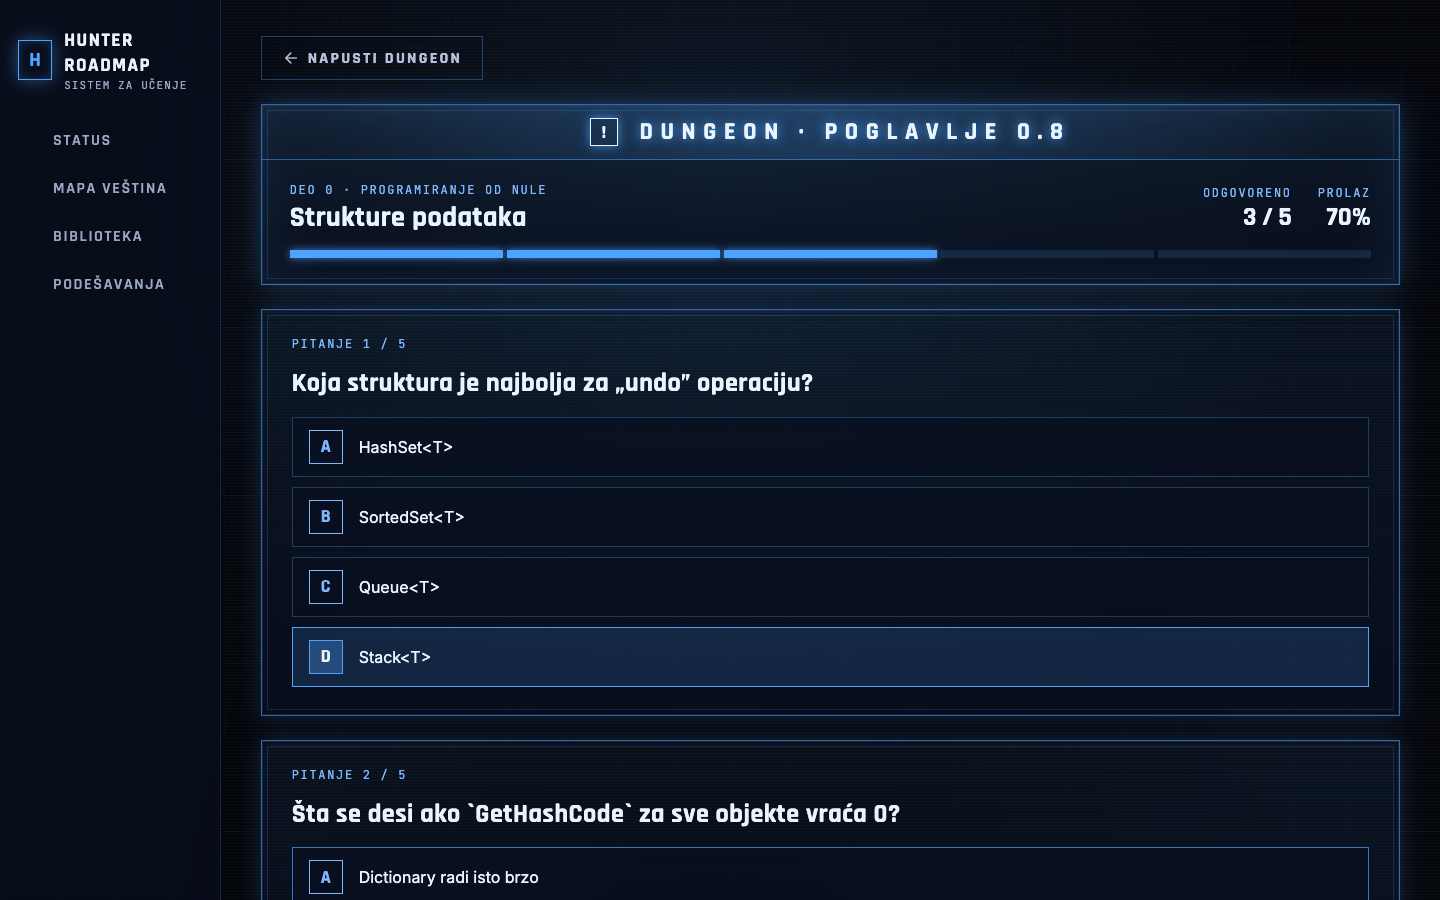
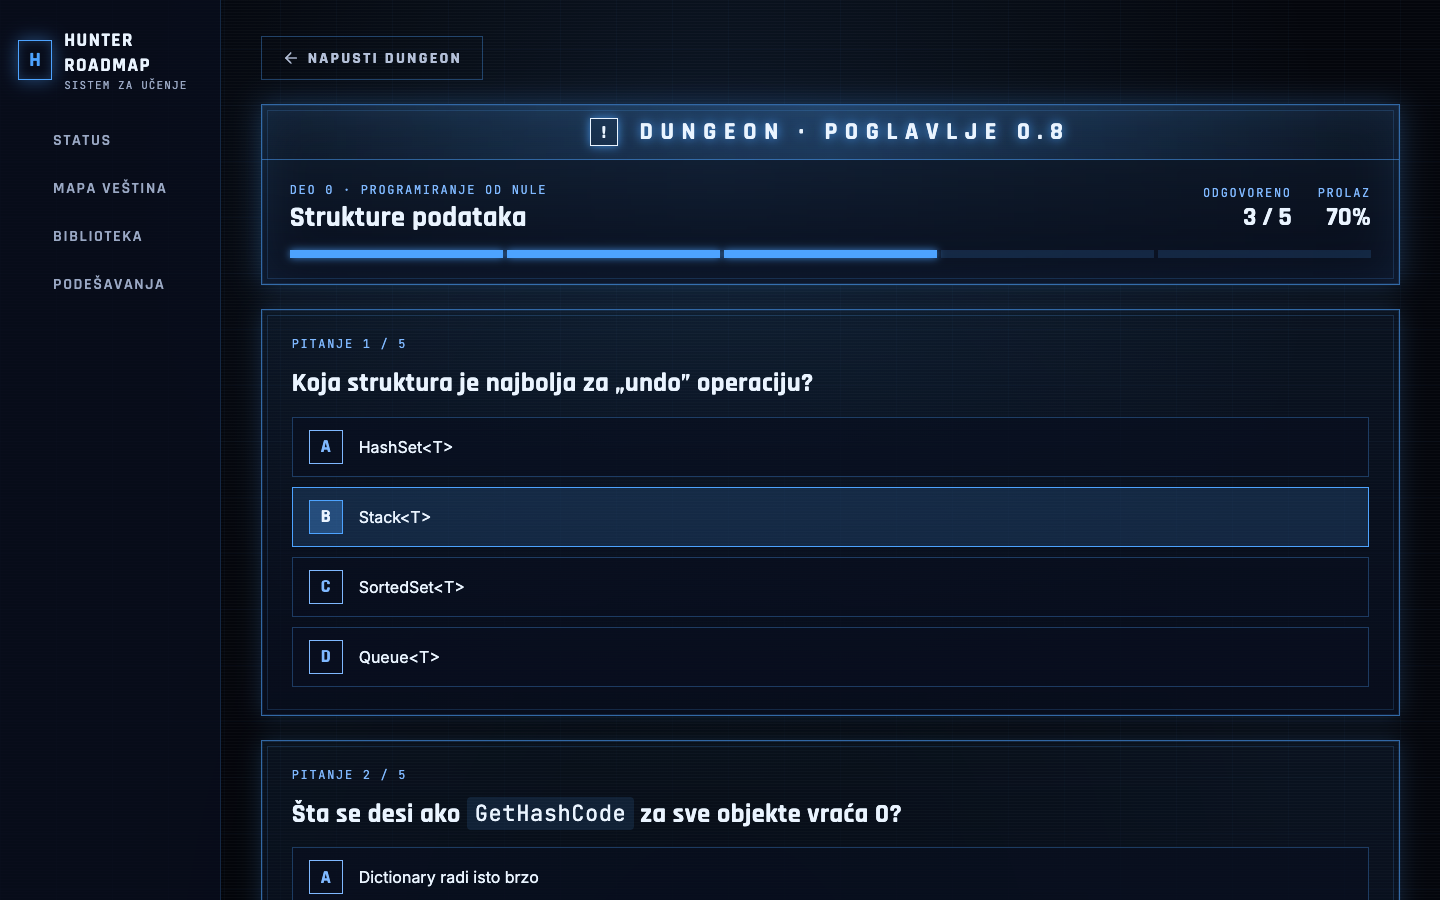
fix(web): inline kod u pitanjima testa umesto doslovnih backtick-ova
- lib/inlineCode.ts (splitInlineCode, testovi) + components/InlineText.tsx:
  `kod` u tekstu pitanja, opcijama, objašnjenju i slabim tačkama postaje <code>,
  bez react-markdown-a u test i boss chunk-u
- E2E helper poredi tekst bez backtick-ova
- nova slika ekrana testa, broj Vitest testova u README-ima

Changed region(s): [[0.1875, 0.5289, 0.9688, 0.7778], [0.3125, 0.8711, 0.625, 0.9333]]

diff --git a/web/src/components/QuestionCard.tsx b/web/src/components/QuestionCard.tsx
@@ -1,5 +1,6 @@
 import type { PublicQuestion, QuestionResult } from "../api";
 import { KEYS } from "../lib/quiz";
+import { InlineText } from "./InlineText";
 
 /**
  * Jedno pitanje testa sa opcijama u izmešanom redosledu (`order`) i, posle predaje, ocenom.
@@ -21,7 +22,7 @@ export function QuestionCard({ question, index, total, order, picked, graded, on
   return (
     <section className="card glass q-card" aria-labelledby={id}>
       <span className="win-label">Pitanje {index + 1} / {total}</span>
-      <h2 id={id} className="q-text">{question.text}</h2>
+      <h2 id={id} className="q-text"><InlineText text={question.text} /></h2>
       {question.code && <pre className="prose q-code"><code>{question.code}</code></pre>}
       <div role="radiogroup" aria-labelledby={id} style={{ display: "flex", flexDirection: "column", gap: 10 }}>
         {order.map((orig, pos) => {
@@ -31,7 +32,7 @@ export function QuestionCard({ question, index, total, order, picked, graded, on
             <button key={orig} type="button" role="radio" aria-checked={isPicked} className={`option ${cls}`}
               disabled={!!graded} onClick={() => onPick(orig)}>
               <span className="key">{KEYS[pos]}</span>
-              <span style={{ flex: 1 }}>{question.options[orig]}</span>
+              <span style={{ flex: 1 }}><InlineText text={question.options[orig]} /></span>
               {graded && orig === graded.correct && <strong className="opt-mark">Tačno</strong>}
               {graded && isPicked && !graded.isCorrect && <strong className="opt-mark">Tvoj odgovor</strong>}
             </button>
@@ -41,7 +42,7 @@ export function QuestionCard({ question, index, total, order, picked, graded, on
       {graded && (
         <div className={`q-feedback${graded.isCorrect ? " ok" : " bad"}`}>
           <strong>{graded.isCorrect ? "[ SISTEM ] TAČNO" : `[ SISTEM ] NETAČNO · TAČAN ODGOVOR: ${correctKey}`}</strong>
-          <span>{graded.why}</span>
+          <span><InlineText text={graded.why} /></span>
         </div>
       )}
     </section>

diff --git a/web/e2e/helpers.ts b/web/e2e/helpers.ts
@@ -1,5 +1,6 @@
 import { test as base, expect, type APIRequestContext, type Page } from "@playwright/test";
 import pack from "../../packs/fullstack-dotnet/chapters.json" with { type: "json" };
+import { splitInlineCode } from "../src/lib/inlineCode";
 
 // Pomoćne funkcije za E2E testove. Tačne odgovore API namerno ne šalje pre predaje, pa ih test
 // čita iz samog paketa (isti fajl koji API uvozi), kao što bi ih znao korisnik koji je naučio lekciju.
@@ -29,9 +30,12 @@ interface PackChapter { id: string; test: PackQuestion[] }
 const chapters = pack as PackChapter[];
 
 // Pitanje se prepoznaje po tekstu I kodu: više pitanja ima isti tekst („Šta ispisuje kod?”) sa drugim kodom.
-const key = (text: string, code: string | null) => `${text.trim()}\n${(code ?? "").trim()}`;
+const key = (text: string, code: string | null) => `${plain(text)}\n${(code ?? "").trim()}`;
+// Inline kod (`...`) se na ekranu prikazuje kao <code>, bez backtick-ova (InlineText),
+// pa se tekst iz paketa poredi bez njih, isto kao splitInlineCode.
+const plain = (s: string) => splitInlineCode(s).map((p) => p.text).join("").trim();
 const correctOption = new Map(
-  chapters.flatMap((c) => c.test.map((q) => [key(q.text, q.code), q.options[q.correct]] as const)),
+  chapters.flatMap((c) => c.test.map((q) => [key(q.text, q.code), plain(q.options[q.correct])] as const)),
 );
 
 export const correctAnswers = (chapterId: string) =>

diff --git a/web/src/styles.css b/web/src/styles.css
@@ -239,6 +239,8 @@ h1, h2, h3 { font-family: var(--display); margin: 0; letter-spacing: 0.02em; }
 @media (max-width: 700px) { .card.glass { padding: 20px 16px; } }
 .q-text { font-family: var(--display); font-size: 26px; font-weight: 700; line-height: 1.25; color: var(--bright); }
 .prose.q-code { margin: 0; max-width: none; }
+/* Inline kod u pitanjima, opcijama, objašnjenjima i slabim tačkama (InlineText). */
+.q-text code, .option code, .q-feedback span code, .weak code { font-family: var(--mono); font-size: 0.85em; font-weight: 500; background: rgba(var(--accent-rgb), 0.12); padding: 0.05em 0.35em; border-radius: 4px; }
 .prose.q-code, .prose pre { border-radius: 0; border-color: rgba(var(--accent-rgb), 0.3); background: rgba(3, 6, 14, 0.85); }
 .q-feedback { position: relative; display: flex; flex-direction: column; gap: 8px; padding: 14px 16px; font-size: 15px; line-height: 1.55; color: #dce3f2; animation: fx-in 0.35s ease both; }
 .q-feedback strong { font-family: var(--mono); font-size: 13px; letter-spacing: 0.1em; }

diff --git a/web/src/pages/StatusPage.tsx b/web/src/pages/StatusPage.tsx
@@ -7,6 +7,7 @@ import { Icon } from "../components/Icon";
 import { useCountUp, useRankChanged, useSeenNumbers } from "../components/Fx";
 import { Window } from "../components/Window";
 import { PenaltyDialog } from "../components/PenaltyDialog";
+import { InlineText } from "../components/InlineText";
 import { heatLevel, STEP_LABEL } from "../lib/quiz";
 
 const HEAT_ALPHA = [0, 0.25, 0.45, 0.7, 1];
@@ -285,7 +286,7 @@ export function StatusPage() {
           {s.weakPoints.map((w, i) => (
             <Link key={i} className="list-row" to={`/chapters/${encodeURIComponent(w.chapterId)}`}>
               <span style={{ fontFamily: "var(--mono)", fontSize: 12, color: "var(--bad)", minWidth: 40 }}>{w.chapterId}</span>
-              <span style={{ flex: 1, fontSize: 14 }}>{w.question}</span>
+              <span style={{ flex: 1, fontSize: 14 }}><InlineText text={w.question} /></span>
             </Link>
           ))}
         </section>

diff --git a/web/src/lib/inlineCode.test.ts b/web/src/lib/inlineCode.test.ts
@@ -1,0 +1,29 @@
+import { describe, expect, it } from "vitest";
+import { splitInlineCode } from "./inlineCode";
+
+describe("splitInlineCode", () => {
+  it("izdvaja kod između backtick-ova", () => {
+    expect(splitInlineCode("Šta ako `GetHashCode` vraća `0`?")).toEqual([
+      { text: "Šta ako ", code: false },
+      { text: "GetHashCode", code: true },
+      { text: " vraća ", code: false },
+      { text: "0", code: true },
+      { text: "?", code: false },
+    ]);
+  });
+
+  it("tekst bez koda ostaje jedan deo", () => {
+    expect(splitInlineCode("Običan tekst")).toEqual([{ text: "Običan tekst", code: false }]);
+  });
+
+  it("neuparen backtick ostaje doslovno", () => {
+    expect(splitInlineCode("`a` i ` b")).toEqual([
+      { text: "a", code: true },
+      { text: " i ` b", code: false },
+    ]);
+  });
+
+  it("prazan string daje prazan niz", () => {
+    expect(splitInlineCode("")).toEqual([]);
+  });
+});

diff --git a/web/src/lib/inlineCode.ts b/web/src/lib/inlineCode.ts
@@ -1,0 +1,21 @@
+/**
+ * Deli tekst pitanja na obične delove i delove u `backtick-ovima` (kod).
+ * Pitanja i opcije nisu pun Markdown, pa nema potrebe za react-markdown-om u test i boss
+ * chunk-u; dovoljno je prepoznati inline kod. Neuparen backtick ostaje doslovno.
+ */
+export interface TextPart { text: string; code: boolean }
+
+export function splitInlineCode(s: string): TextPart[] {
+  const parts: TextPart[] = [];
+  let rest = s;
+  for (;;) {
+    const open = rest.indexOf("`");
+    const close = open < 0 ? -1 : rest.indexOf("`", open + 1);
+    if (close < 0) break;
+    if (open > 0) parts.push({ text: rest.slice(0, open), code: false });
+    if (close > open + 1) parts.push({ text: rest.slice(open + 1, close), code: true });
+    rest = rest.slice(close + 1);
+  }
+  if (rest) parts.push({ text: rest, code: false });
+  return parts;
+}

diff --git a/web/src/components/InlineText.tsx b/web/src/components/InlineText.tsx
@@ -1,0 +1,6 @@
+import { splitInlineCode } from "../lib/inlineCode";
+
+/** Tekst sa `inline kodom` (pitanja, opcije, objašnjenja, slabe tačke). */
+export function InlineText({ text }: { text: string }) {
+  return <>{splitInlineCode(text).map((p, i) => (p.code ? <code key={i}>{p.text}</code> : p.text))}</>;
+}

diff --git a/README.md b/README.md
@@ -50,7 +50,7 @@ These are the decisions I would walk through in an interview:
 |---|---|---|
 | Unit | xUnit (53 tests) | all game rules in `Hunter.Core` |
 | Integration | `WebApplicationFactory<Program>` + Testcontainers PostgreSQL (32 tests) | pack import and activation, rejected invalid zip, XP paid once, answers hidden before submit, test pass/fail, daily and penalty quests, free points, boss |
-| Frontend unit | Vitest (13 tests) | answer shuffling, count-up animation, boot timing |
+| Frontend unit | Vitest (17 tests) | answer shuffling, count-up animation, boot timing, inline code in questions |
 | End-to-end | Playwright in real Chrome (15 tests) | full flows: steps and +XP, level up, test gate, daily quest, penalty dialog, boss and region clear, reduced motion |
 
 E2E tests run against a separate Compose project (`hunter-e2e`, port 8099, its own database), so they never touch your local progress.

diff --git a/README.sr.md b/README.sr.md
@@ -77,7 +77,7 @@ U VS Code-u instaliraj predloženo proširenje „TypeScript Native Preview” (
 |---|---|---|
 | jedinični | xUnit (53) | sva pravila igre u `Hunter.Core` |
 | integracioni | `WebApplicationFactory<Program>` + Testcontainers PostgreSQL (32) | uvoz i aktivacija paketa, odbijen neispravan zip, XP samo jednom, odgovori skriveni pre predaje, test, dnevni i kazneni zadatak, slobodni poeni, boss |
-| frontend | Vitest (13) | mešanje opcija, odbrojavanje, vremena boot ekrana |
+| frontend | Vitest (17) | mešanje opcija, odbrojavanje, vremena boot ekrana, inline kod u pitanjima |
 | E2E | Playwright u pravom Chrome-u (15) | koraci i +XP, level up, kapija pred test, dnevni zadatak, kazna, boss i „DUNGEON CLEARED”, smanjeni pokreti |
 
 ```bash
